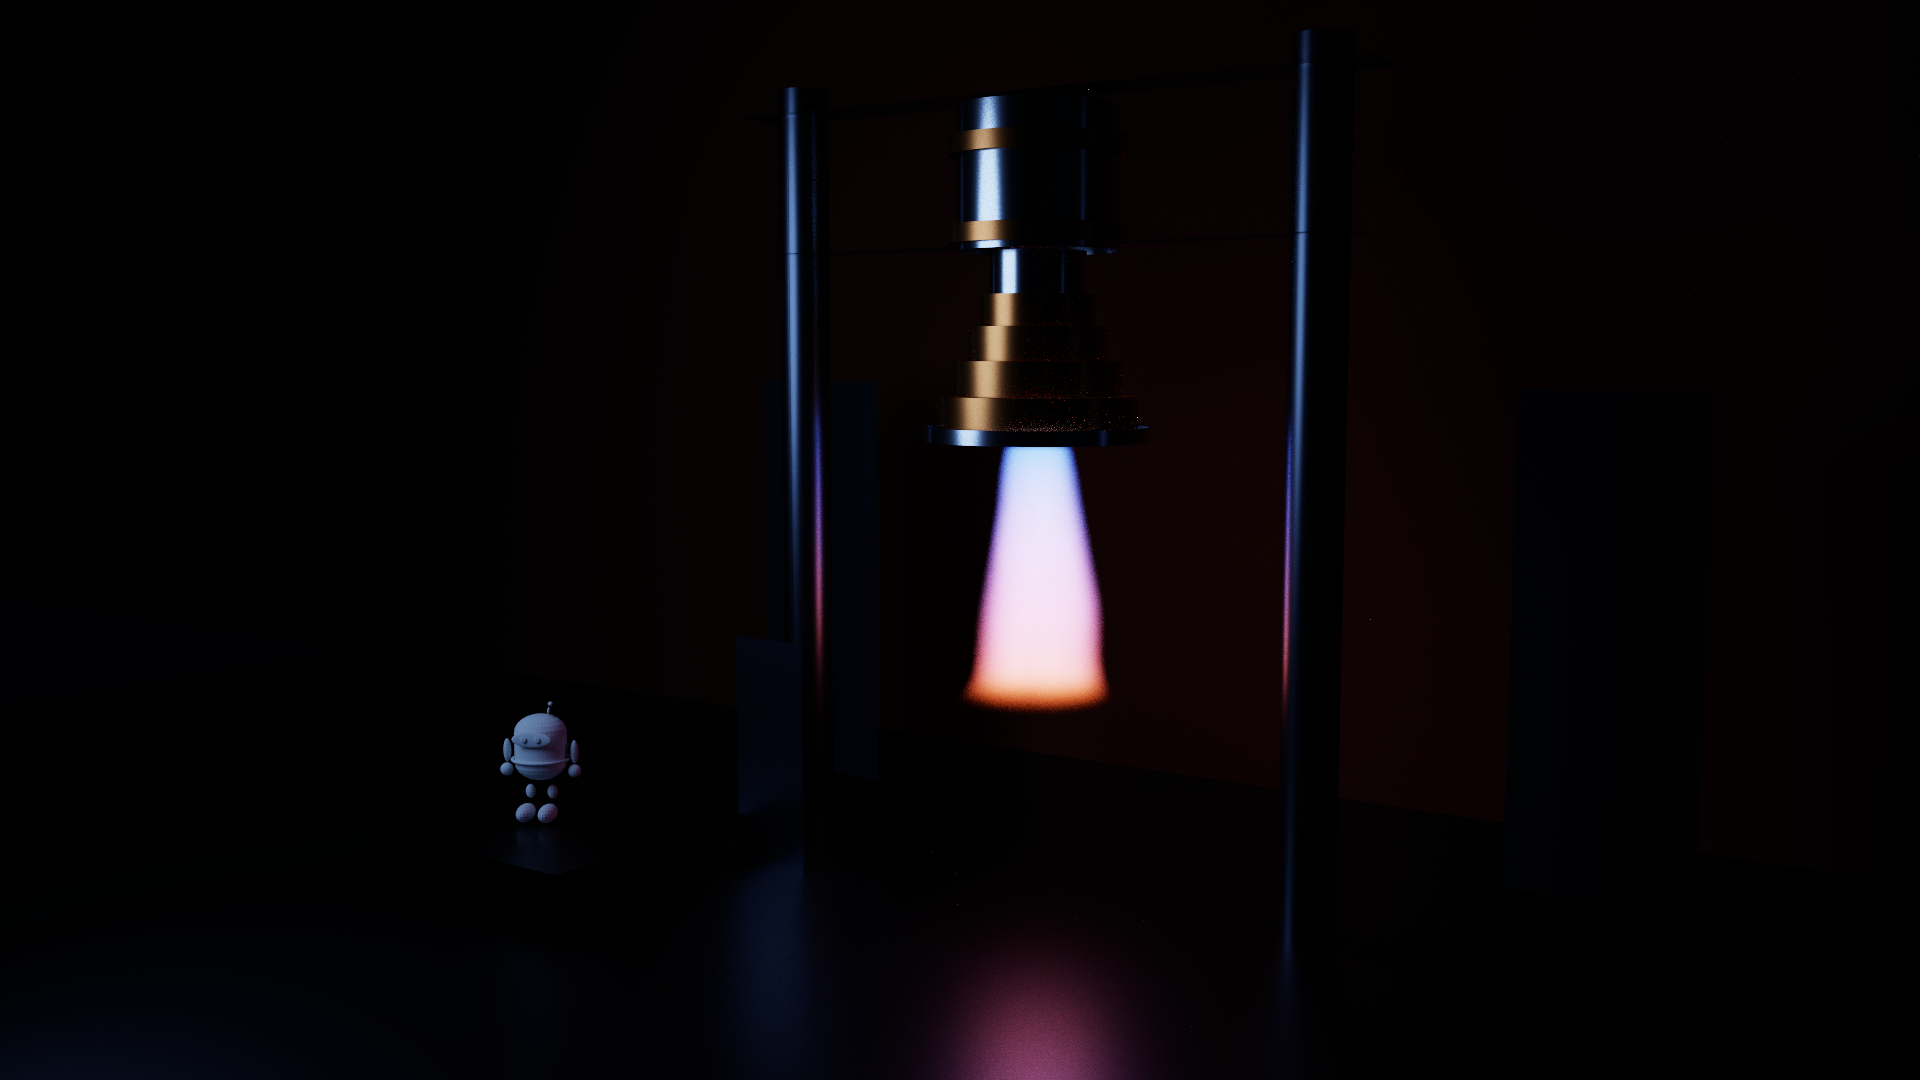
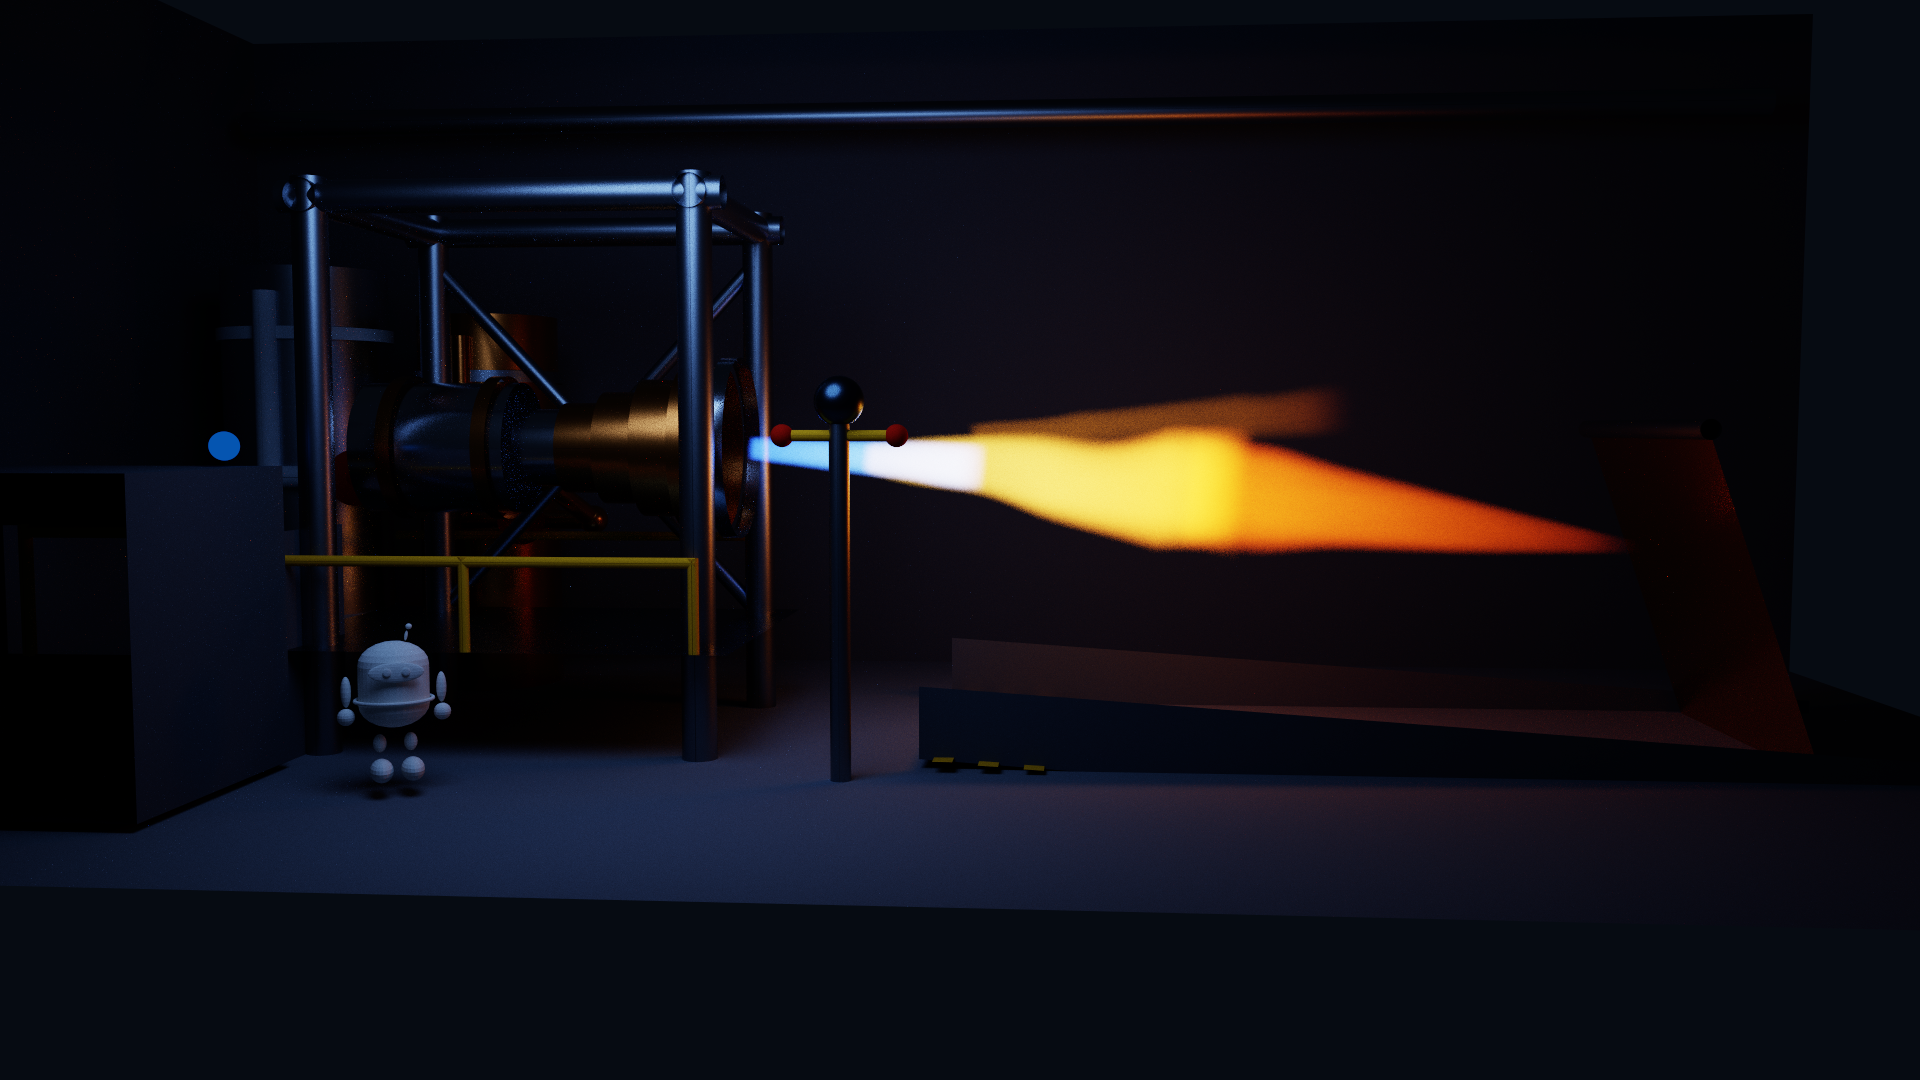
feat: redesign Rocket Test Stand scene

Changed region(s): [[0.0, 0.0306, 0.9062, 0.8556], [0.4688, 0.8861, 0.5938, 1.0], [0.875, 0.3972, 0.9062, 0.4889]]

diff --git a/tests/test_mascot_scenes.py b/tests/test_mascot_scenes.py
@@ -131,16 +131,73 @@ def test_rocket_test_stand_uses_procedural_flame_without_warm_proxy_light():
         "denoise": False,
     }
     assert scene["camera"]["aperture"] == 0.0
-    assert [light["type"] for light in scene["lights"]] == ["flame", "disk"]
-    flame = scene["lights"][0]
-    assert flame["name"] == "rocket_plume"
-    assert flame["axis"] == [0.0, -1.0, 0.0]
-    assert flame["position"][1] - flame["height"] > 0.0
-    assert "object" not in flame
-    fill = scene["lights"][1]
-    assert fill["name"] == "inspection_fill"
+
+    flames = [light for light in scene["lights"] if light["type"] == "flame"]
+    assert len(scene["lights"]) == 5
+    assert len(flames) == 4
+    assert {flame["name"] for flame in flames} == {
+        "blue_white_combustion_core",
+        "yellow_orange_expanding_plume",
+        "red_orange_tapered_tail",
+        "off_axis_flicker_tongue",
+    }
+    for flame in flames:
+        assert "object" not in flame
+        assert flame["axis"][0] > 0.0
+        assert flame["axis"][0] > abs(flame["axis"][1])
+        assert flame["axis"][0] > abs(flame["axis"][2])
+
+    flames_by_name = {flame["name"]: flame for flame in flames}
+    for name in (
+        "blue_white_combustion_core",
+        "yellow_orange_expanding_plume",
+        "red_orange_tapered_tail",
+    ):
+        assert flames_by_name[name]["axis"][1] < 0.0
+    assert flames_by_name["off_axis_flicker_tongue"]["axis"][1] > 0.0
+    core = flames_by_name["blue_white_combustion_core"]
+    assert core["emission_start"][2] > core["emission_start"][1]
+    assert core["emission_start"][2] > core["emission_start"][0]
+    for name in (
+        "yellow_orange_expanding_plume",
+        "red_orange_tapered_tail",
+        "off_axis_flicker_tongue",
+    ):
+        flame = flames_by_name[name]
+        assert flame["emission_start"][0] > flame["emission_start"][1]
+        assert flame["emission_start"][1] > flame["emission_start"][2]
+        assert flame["emission_end"][0] > flame["emission_end"][1]
+        assert flame["emission_end"][1] > flame["emission_end"][2]
+
+    fills = [light for light in scene["lights"] if light["type"] == "disk"]
+    assert len(fills) == 1
+    fill = fills[0]
+    assert fill["name"] == "cold_inspection_fill"
     assert fill["emission"][2] > fill["emission"][1] > fill["emission"][0]
     assert max(fill["emission"]) <= 3.0
+
+    objects = {obj["name"]: obj for obj in scene["objects"]}
+    assert set(objects) >= {
+        "oxidizer_storage_tank",
+        "fuel_storage_tank",
+        "oxidizer_downpipe",
+        "oxidizer_main_valve",
+        "fuel_downpipe",
+        "fuel_main_valve",
+        "engine_service_platform",
+        "platform_front_guardrail",
+        "access_ladder_left_rail",
+        "gantry_front_left_column",
+        "gantry_rear_brace_up",
+        "flame_trench_ramp",
+        "flame_deflector",
+        "control_bunker_floor",
+        "control_observation_window",
+        "observer_blast_shield",
+        "test_observer",
+    }
+    mascot_instances = [obj for obj in objects.values() if obj["type"] == "mesh"]
+    assert [obj["name"] for obj in mascot_instances] == ["test_observer"]
 
 
 def test_moonlit_stepwell_uses_runtime_water_and_release_quality_defaults():

diff --git a/docs/BENCHMARK.md b/docs/BENCHMARK.md
@@ -11,7 +11,7 @@
 | celestial-archive | 2.679 | 606.931 | 14.530 | 1,345.682 | 3,143,769,772 | 5.180 | 1,324.3 | 495.7 |
 | reflector-laboratory | 2.655 | 782.546 | 14.367 | 1,472.562 | 2,762,368,581 | 3.530 | 1,308.3 | 483.7 |
 | benchmark-harbor | 169.622 | 228.853 | 15.533 | 1,087.870 | 1,614,680,505 | 7.056 | 1,310.3 | 485.4 |
-| rocket-test-stand | 3.985 | 12,961.918 | 0.000 | 14,297.762 | 16,088,692,359 | 1.241 | 1,062.3 | 190.5 |
+| rocket-test-stand | 17.305 | 12,747.604 | 0.000 | 15,438.029 | 13,795,328,367 | 1.082 | 1,468.3 | 190.6 |
 | moonlit-stepwell | 9.443 | 17,065.023 | 0.000 | 19,669.170 | 15,553,006,112 | 0.911 | 1,516.3 | 238.0 |
 
 `Path trace` 对应统计 JSON 的 `timings_ms.render`，只计一次 `optixLaunch`。`Total` 在 `render_optix()` 完成参数与像素数检查后开始，到返回前结束，包含 CUDA/OptiX 初始化、纹理解码与上传、BVH、追踪、可选降噪、后处理、设备到主机回传和设备信息查询；不含此前的场景/OBJ 解析、之后的 PNG/stats 写盘及函数局部 RAII 资源析构，因此不等于前三项简单相加。显存按 1 MiB = 1,048,576 bytes 换算。
@@ -25,11 +25,11 @@
 | celestial-archive | 9 | 9 | 1 | 5,816 | 9 |
 | reflector-laboratory | 10 | 10 | 1 | 5,816 | 10 |
 | benchmark-harbor | 1,040 | 1,040 | 1 | 5,816 | 1,025 |
-| rocket-test-stand | 21 | 21 | 1 | 5,816 | 21 |
+| rocket-test-stand | 85 | 85 | 1 | 5,816 | 85 |
 | moonlit-stepwell | 36 | 36 | 1 | 5,816 | 36 |
 
 Harbor 的 16 个胶囊吉祥物共享一份 mascot GAS，另有 1,024 个 sphere GAS；`mesh_triangles` 不按实例数重复计数。
-Rocket Test Stand 的 flame 不注册为几何，因此不增加 object、instance、GAS 或 SBT 数量；其密度求值、真实碰撞和体积选灯次数由独立 volume stats 记录。该场景的正式运行执行 6,034,687,147 次密度求值、251,502,165 次真实体积碰撞和 3,805,828,238 次 flame NEE 选灯；majorant violation 与 tracking overflow 均为 0。场景另有一盏低能量冷色检修补光用于读清喷管和尺度参照，不充当暖色火焰代理。体积求值是 raygen 中的纯 CUDA 工作，不计入 `traced_rays`，所以该场景的 rays/s 不应与纯表面场景直接比较。
+Rocket Test Stand 的四股 flame 不注册为几何，因此不增加 object、instance、GAS 或 SBT 数量；85 个几何对象来自横向发动机、双储罐与管阀、桁架、检修设施、火焰沟、防爆控制区和尺度参照。其密度求值、真实碰撞和体积选灯次数由独立 volume stats 记录。该场景的正式运行执行 13,227,057,669 次密度求值、223,841,360 次真实体积碰撞和 5,559,197,943 次 flame NEE 选灯；majorant violation 与 tracking overflow 均为 0。场景另有一盏低能量冷色检修补光用于读清设备，不充当暖色火焰代理。体积求值是 raygen 中的纯 CUDA 工作，不计入 `traced_rays`，所以该场景的 rays/s 不应与纯表面场景直接比较。
 
 Moonlit Stepwell 的 water_surface 注册为一个共享波面参数的 custom-primitive GAS；最短波长决定 tile 数和 GAS primitive 数，但不把解析曲面三角化。本次正式运行记录 66,080,894,763 次 height evaluation、6,841,808,741 次 tile test、1,620,050,797 个 reported root、403,826,143 次 shadow transmission 和 2,303,902,049 个 medium segment，solver overflow、medium error 与 shadow-boundary overflow 均为 0。其路径追踪耗时和 rays/s 因包含 OptiX 自定义 intersection 中的 CUDA 数值求根、介质栈与 Beer 计算，不应直接与纯表面场景比较。
 

diff --git a/docs/technical-report/11-procedural-volumetric-flame.md b/docs/technical-report/11-procedural-volumetric-flame.md
@@ -1,8 +1,10 @@
 # 11　程序化体积火焰：吸收、自发光与 Delta Tracking
 
-Rocket Test Stand 增加的不是一张透明火焰贴图，也不是藏在喷流中的面积灯，而是一个有限支撑的异质参与介质。它只吸收和自发光，不散射；因此能从相机直接看见，也能照亮发动机、墙面和地面，并会削弱穿过喷流的其他光线。
+Rocket Test Stand 增加的不是透明火焰贴图，也不是藏在喷流中的面积灯，而是四个有限支撑的异质参与介质。它们只吸收和自发光，不散射；因此能从相机直接看见，也能照亮发动机与周围设施，并会削弱穿过喷流的其他光线。
 
-这仍不是燃烧模拟。密度来自固定 seed 的程序化噪声，颜色是场景给定的线性 RGB 渐变；没有温度、化学组分、流体速度、烟雾、时间或黑体光谱。
+四股 flame 分别构成短窄的蓝白核心、扩张的黄橙主焰、收尖的红橙长尾和轻微偏轴的细火舌。不同的支撑范围、渐变、湍流参数与 seed 让轮廓呈现分层和非对称性；这仍不是燃烧模拟：密度来自固定 seed 的程序化噪声，颜色是场景给定的线性 RGB 渐变，没有温度、化学组分、流体速度、烟雾、体积散射、时间或黑体光谱。
+
+横向点火舱同时布置双推进剂储罐、输送管与阀组、发动机桁架、检修平台、火焰沟和防爆控制区，使火焰与高密度工程设施相互照明和遮挡。所有暖色照明均来自这四股 flame；场景只保留一个低能量冷色补光，用于维持暗部设备的可读性。
 
 ## 1. 无散射体积的传输方程
 

diff --git a/docs/EXAMPLES.md b/docs/EXAMPLES.md
@@ -36,7 +36,7 @@
 
 ![Rocket Test Stand](gallery/rocket-test-stand.png)
 
-近距离火箭发动机试车台只用 cylinder、disk、rectangle 与同一 mascot OBJ 搭建。向下喷流是 schema v3 的程序化异质吸收—自发光体积，采用线性 RGB 轴向渐变、Delta Tracking 和体积 NEE；它不是黑体、CFD、烟雾或动画。吉祥物观察员躲在隔热板后提供尺度参照；低能量冷色检修补光只负责读清喷管，不充当暖色火焰代理。正式图固定为 2048 spp、depth 12、无 Denoiser。
+横向点火舱把发动机、完整尾焰和斜向导流火焰沟纳入同一低机位画面。尾焰由四股 schema v3 程序化异质吸收—自发光体积叠加：短窄的蓝白核心、扩张的黄橙主焰、收尖的红橙长尾，以及轻微偏轴的细火舌；它们使用线性 RGB 轴向渐变、Delta Tracking 和体积 NEE，并非黑体、CFD、烟雾或动画。双推进剂储罐与端盖、输送管和阀组、发动机桁架与斜撑、检修平台/护栏/梯子、火焰沟与导流板、防爆控制区共同构成高密度设施；一个 mascot 观察员提供尺度参照。场景中的暖光只来自四股 flame，唯一的低能量冷色补光只负责读清设备。正式图固定为 2048 spp、depth 12、无 Denoiser。
 
 ## Moonlit Stepwell
 